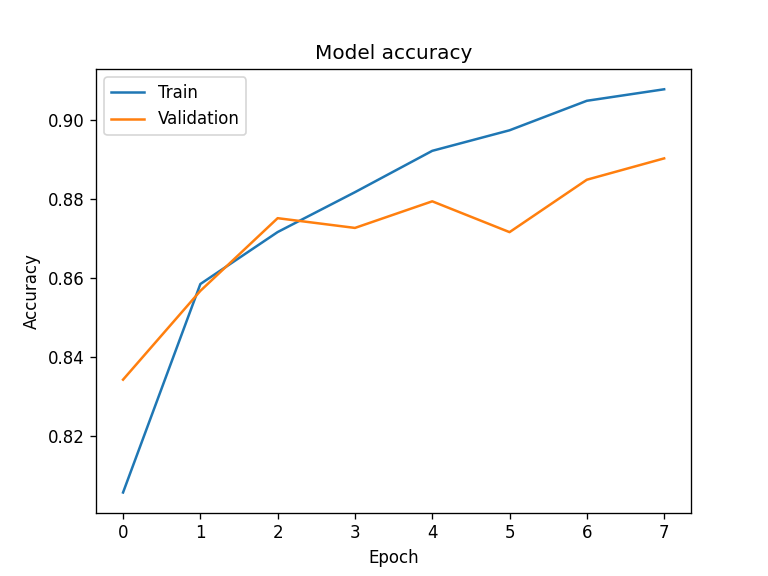
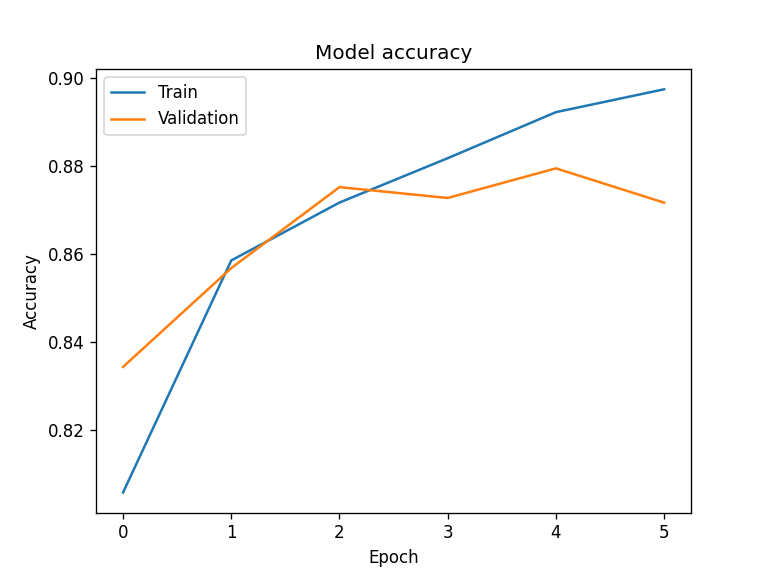
add: plot_func.py for plotting

diff --git a/model.py b/model.py
@@ -1,55 +1,14 @@
-# Import modules and packages
-from numpy.lib.npyio import save
 import tensorflow as tf
-import sklearn.metrics as metrics
-from sklearn.metrics import confusion_matrix
-from sklearn.utils.multiclass import unique_labels
-import matplotlib.pyplot as plt
 import numpy as np
-
+from plot_func import *
 
 print(tf.__version__)
-
-# Functions and procedures
-# def plot_predictions(train_data, train_labels,  test_data, test_labels,  predictions):
-#     """
-#     Plots training data, test data and compares predictions.
-#     """
-#     plt.figure(figsize=(6, 5))
-#     # Plot training data in blue
-#     plt.scatter(train_data, train_labels, c="b", label="Training data")
-#     # Plot test data in green
-#     plt.scatter(test_data, test_labels, c="g", label="Testing data")
-#     # Plot the predictions in red (predictions were made on the test data)
-#     plt.scatter(test_data, predictions, c="r", label="Predictions")
-#     # Show the legend
-#     plt.legend(shadow='True')
-#     # Set grids
-#     plt.grid(which='major', c='#cccccc', linestyle='--', alpha=0.5)
-#     # Some text
-#     plt.title('Model Results', family='Arial', fontsize=14)
-#     plt.xlabel('X axis values', family='Arial', fontsize=11)
-#     plt.ylabel('Y axis values', family='Arial', fontsize=11)
-#     # Show
-#     plt.savefig('model_results.png', dpi=120)
-
-# def plot_confusion_matrix(cm, names, title='Confusion matrix', cmap=plt.cm.Blues):
-#     plt.imshow(cm, interpolation='nearest', cmap=cmap)
-#     plt.title(title)
-#     plt.colorbar()
-#     tick_marks = np.arange(len(names))
-#     plt.xticks(tick_marks, names, rotation=90)
-#     plt.yticks(tick_marks, names)
-#     plt.tight_layout()
-#     plt.ylabel('True label')
-#     plt.xlabel('Predicted label')
-
-
 
 # Data set: Fasfion_MNIST
 fashion_mnist = tf.keras.datasets.fashion_mnist
 (X_train, y_train), (X_test, y_test) = fashion_mnist.load_data()
 class_names = ['T-shirt/top', 'Trouser', 'Pullover', 'Dress', 'Coat', 'Sandal', 'Shirt', 'Sneaker', 'Bag', 'Ankle boot']
+
 # Set random seed
 tf.random.set_seed(520)
 
@@ -63,7 +22,6 @@ model = tf.keras.Sequential([
     tf.keras.layers.Dense(500, activation='relu'),
     tf.keras.layers.Dense(10, activation='softmax')
     ])
-
 model.compile(
     optimizer='adam',
     loss='sparse_categorical_crossentropy',
@@ -71,93 +29,17 @@ model.compile(
 
 
 # Fit the model
-history = model.fit(X_train, y_train, validation_split=0.25, epochs=8)
+history = model.fit(X_train, y_train, validation_split=0.25, epochs=6)
 
 # Make predictions for model_1
 y_preds = model.predict(X_test)
 
-# Plot predictions for model_1
-# plot_predictions(train_data=X_train[:,0][:,0], train_labels=y_train,  test_data=X_test, test_labels=y_test,  predictions=y_preds)
-
 # Calculate model_1 metrics
 test_loss, test_acc = model.evaluate(X_test, y_test)
-
 print(f'\nTest accuracy: {test_acc}')
 print(f'Test loss: {test_loss}')
 
-
-
-def plot_confusion_matrix(y_true, y_pred, classes=None, normalize=False):
-    # Compute confusion matrix with sklearn.metrics.confusion_matrix()
-    cm = confusion_matrix(y_true, y_pred)
-    # Only use the labels that appear in the data
-    unique = unique_labels(y_true, y_pred)
-    classes = unique if (classes is None) else classes[unique]
-    if normalize:
-        cm = cm.astype('float') / cm.sum(axis=1)[:, np.newaxis]
-
-    fig, ax = plt.subplots()
-    im = ax.imshow(cm, interpolation='nearest', cmap=plt.cm.Blues)
-    ax.figure.colorbar(im, ax=ax)
-    ax.set(
-        xticks=np.arange(cm.shape[1]), 
-        yticks=np.arange(cm.shape[0]),
-        # ... and label them with the respective list entries
-        xticklabels=classes, 
-        yticklabels=classes,
-        title='Confusion matrix',
-        ylabel='True label',
-        xlabel='Predicted label')
-
-    # Rotate the tick labels and set their alignment.
-    plt.setp(
-        ax.get_xticklabels(), 
-        rotation=45, 
-        ha="right",
-        rotation_mode="anchor")
-
-    # Loop over data dimensions and create text annotations.
-    fmt = '.2f' if normalize else 'd'
-    thresh = cm.max() / 2.
-    for i in range(cm.shape[0]):
-        for j in range(cm.shape[1]):
-            ax.text(
-                j, 
-                i, 
-                format(cm[i, j], fmt),
-                ha="center", 
-                va="center",
-                color="white" if cm[i, j] > thresh else "black")
-    fig.tight_layout()
-
-    # Save confusion_matrix plot.
-    plt.savefig('plot_confusion_matrix.png', dpi=120)
-    plt.close()
-    return ax
-
-def plot_accuracy(history):
-    accuracy_label = 'accuracy' if 'accuracy' in history.history else 'acc'
-    """Plot training & validation accuracy values"""
-    plt.plot(history.history[accuracy_label])
-    plt.plot(history.history['val_'+accuracy_label])
-    plt.title('Model accuracy')
-    plt.ylabel('Accuracy')
-    plt.xlabel('Epoch')
-    plt.legend(['Train', 'Validation'], loc='upper left')
-    plt.savefig('plot_accuracy.png', dpi=120)
-    plt.close()
-
-def plot_loss(history):
-    """Plot training & validation loss values"""
-    plt.plot(history.history['loss'])
-    plt.plot(history.history['val_loss'])
-    plt.title('Model loss')
-    plt.ylabel('Loss')
-    plt.xlabel('Epoch')
-    plt.legend(['Train', 'Validation'], loc='upper left')
-    plt.savefig('plot_loss.png', dpi=120)
-    plt.close()
-
+# Plot predictions for model_1
 predicted_classes = np.argmax(y_preds, axis = 1)
 plot_confusion_matrix(y_pred=predicted_classes, y_true=y_test, classes=np.array(class_names))
 plot_accuracy(history)

diff --git a/plot_func.py b/plot_func.py
@@ -1,0 +1,77 @@
+# Import modules and packages
+from sklearn.metrics import confusion_matrix
+from sklearn.utils.multiclass import unique_labels
+import matplotlib.pyplot as plt
+import numpy as np
+
+
+def plot_confusion_matrix(y_true, y_pred, classes=None, normalize=False):
+    # Compute confusion matrix with sklearn.metrics.confusion_matrix()
+    cm = confusion_matrix(y_true, y_pred)
+    # Only use the labels that appear in the data
+    unique = unique_labels(y_true, y_pred)
+    classes = unique if (classes is None) else classes[unique]
+    if normalize:
+        cm = cm.astype('float') / cm.sum(axis=1)[:, np.newaxis]
+
+    fig, ax = plt.subplots()
+    im = ax.imshow(cm, interpolation='nearest', cmap=plt.cm.Blues)
+    ax.figure.colorbar(im, ax=ax)
+    ax.set(
+        xticks=np.arange(cm.shape[1]), 
+        yticks=np.arange(cm.shape[0]),
+        # ... and label them with the respective list entries
+        xticklabels=classes, 
+        yticklabels=classes,
+        title='Confusion matrix',
+        ylabel='True label',
+        xlabel='Predicted label')
+
+    # Rotate the tick labels and set their alignment.
+    plt.setp(
+        ax.get_xticklabels(), 
+        rotation=45, 
+        ha="right",
+        rotation_mode="anchor")
+
+    # Loop over data dimensions and create text annotations.
+    fmt = '.2f' if normalize else 'd'
+    thresh = cm.max() / 2.
+    for i in range(cm.shape[0]):
+        for j in range(cm.shape[1]):
+            ax.text(
+                j, 
+                i, 
+                format(cm[i, j], fmt),
+                ha="center", 
+                va="center",
+                color="white" if cm[i, j] > thresh else "black")
+    fig.tight_layout()
+
+    # Save confusion_matrix plot.
+    plt.savefig('plot_confusion_matrix.png', dpi=120)
+    plt.close()
+    return ax
+
+def plot_accuracy(history):
+    accuracy_label = 'accuracy' if 'accuracy' in history.history else 'acc'
+    """Plot training & validation accuracy values"""
+    plt.plot(history.history[accuracy_label])
+    plt.plot(history.history['val_'+accuracy_label])
+    plt.title('Model accuracy')
+    plt.ylabel('Accuracy')
+    plt.xlabel('Epoch')
+    plt.legend(['Train', 'Validation'], loc='upper left')
+    plt.savefig('plot_accuracy.png', dpi=120)
+    plt.close()
+
+def plot_loss(history):
+    """Plot training & validation loss values"""
+    plt.plot(history.history['loss'])
+    plt.plot(history.history['val_loss'])
+    plt.title('Model loss')
+    plt.ylabel('Loss')
+    plt.xlabel('Epoch')
+    plt.legend(['Train', 'Validation'], loc='upper left')
+    plt.savefig('plot_loss.png', dpi=120)
+    plt.close()
